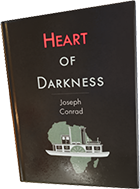
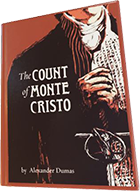
Changes idk

diff --git a/src/views/book/Book.jsx b/src/views/book/Book.jsx
@@ -1,62 +1,28 @@
-import React, { Suspense, useEffect } from 'react';
-import * as THREE from 'three';
+import React, { Suspense } from 'react';
 import './Book.css';
 import { useParams } from 'react-router-dom';
 import { Link } from 'react-router-dom';
-import { Canvas, useThree, useLoader } from '@react-three/fiber';
-import Book3DItem from 'views/book/components/Book3DItem';
+import { Canvas } from '@react-three/fiber';
+import Book3DItem from '../../components/Book3DItem';
 import { OrbitControls, Html } from '@react-three/drei';
-import { HDRCubeTextureLoader } from 'three/examples/jsm/loaders/HDRCubeTextureLoader';
 import { ContactShadows } from '@react-three/drei';
+import Environment from '../../components/Environment';
+import { useFetchBooks } from 'hooks/useFetchBooks';
 
 const Book = () => {
-  const [book, setBook] = React.useState(null);
-
   // Get id from URL
   const { id } = useParams();
 
   // Call database
-  React.useEffect(() => {
-    const fetchBooks = async () => {
-      const response = await fetch(`https://kimmobook.azurewebsites.net/api/Books/${id}`, { method: 'GET' });
-      const data = await response.json();
-      setBook(data);
-    };
-    fetchBooks();
-  }, [id]);
+  const book = useFetchBooks(id);
 
   if (book === null) {
     return null;
   }
 
-  // Environment map for Canvas
-  function Environment({ background = false }) {
-    const { gl, scene } = useThree();
-    const [cubeMap] = useLoader(
-      HDRCubeTextureLoader,
-      [['px.hdr', 'nx.hdr', 'py.hdr', 'ny.hdr', 'pz.hdr', 'nz.hdr']],
-      (loader) => {
-        loader.setDataType(THREE.UnsignedByteType);
-        loader.setPath('/hdri/');
-      },
-    );
-
-    useEffect(() => {
-      const gen = new THREE.PMREMGenerator(gl);
-      gen.compileEquirectangularShader();
-      const hdrCubeRenderTarget = gen.fromCubemap(cubeMap);
-      cubeMap.dispose();
-      gen.dispose();
-      if (background) scene.background = hdrCubeRenderTarget.texture;
-      scene.environment = hdrCubeRenderTarget.texture;
-      return () => (scene.environment = scene.background = null);
-    });
-    return null;
-  }
-
   // id's for next and previous buttons
   function buttonPrevious() {
-    if (book.id > 1) {
+    if (book.id > 7) {
       return book.id - 1;
     } else {
       return book.id;
@@ -64,14 +30,12 @@ const Book = () => {
   }
 
   function buttonNext() {
-    if (book.id < 8) {
+    if (book.id < 14) {
       return book.id + 1;
     } else {
       return book.id;
     }
   }
-
-  console.log(book.length);
 
   return (
     <div>

diff --git a/src/views/landing/Landing.jsx b/src/views/landing/Landing.jsx
@@ -1,0 +1,68 @@
+import React, { Suspense, useState, useEffect } from 'react';
+import { Canvas } from '@react-three/fiber';
+import { OrbitControls, Html } from '@react-three/drei';
+import { ContactShadows } from '@react-three/drei';
+import Environment from '../../components/Environment';
+import Book3DItem from '../../components/Book3DItem';
+import { useFetchBooks } from '../../hooks/useFetchBooks';
+import { Link } from 'react-router-dom';
+
+import './Landing.css';
+
+const Landing = () => {
+  const [id, setId] = useState(7);
+
+  //randomize book to show
+  useEffect(() => {
+    let min = 7;
+    let max = 14;
+    min = Math.ceil(min);
+    max = Math.floor(max);
+    setId(Math.floor(Math.random() * (max - min + 1)) + min);
+  }, []);
+
+  const book = useFetchBooks(id);
+  if (book === null) {
+    return null;
+  }
+
+  return (
+    <div className="landingContainer">
+      <div className="discoverText">
+        Discover
+        <div className="rightText">The Right Book</div>
+        <Link to={`/`}>
+          <button className="enterButton">Enter site</button>
+        </Link>
+      </div>
+      <Canvas className="landingCanvas" camera={{ fov: 75, position: [0, 3, 0] }}>
+        <OrbitControls
+          maxDistance={5}
+          minDistance={2}
+          rotateSpeed={0.3}
+          enableDamping={true}
+          maxPolarAngle={1.5}
+          screenSpacePanning={false}
+          zoomSpeed={0.5}
+        />
+        <Suspense fallback={<Html>Loading...</Html>}>
+          <ContactShadows
+            rotation={[Math.PI / 2, 0, 0]}
+            position={[0, -1, 0]}
+            opacity={0.5}
+            width={40}
+            height={40}
+            blur={1}
+            far={9}
+          />
+          <Environment />
+          <Book3DItem imageid={book.id} />
+        </Suspense>
+        <directionalLight position={[10, 10, 5]} intensity={2} />
+        <directionalLight position={[-10, -10, -5]} intensity={1} />
+      </Canvas>
+    </div>
+  );
+};
+
+export default Landing;

diff --git a/src/views/booklist/BookList.jsx b/src/views/booklist/BookList.jsx
@@ -4,26 +4,50 @@ import BookListItem from './components/BookListItem';
 
 const BookList = () => {
   const [books, setBooks] = React.useState([]);
+  const [searchTerm, setSearchTerm] = React.useState('');
+  const [filteredBooks, setFilteredBooks] = React.useState(books);
 
-  // Call database
   React.useEffect(() => {
     const fetchBooks = async () => {
-      const response = await fetch('https://kimmobook.azurewebsites.net/api/Books', { method: 'GET' });
+      const response = await fetch('https://localhost:44396/api/Books', { method: 'GET' });
       const data = await response.json();
       setBooks(data);
     };
     fetchBooks();
   }, []);
 
+  const handleSearchTermChange = (event) => {
+    setSearchTerm(event.target.value);
+  };
+
+  React.useEffect(() => {
+    const result = books.filter(
+      (book) =>
+        book.title.toLowerCase().includes(searchTerm.toLowerCase()) ||
+        book.author.toLowerCase().includes(searchTerm.toLowerCase()),
+    );
+    setFilteredBooks(result);
+  }, [searchTerm, books]);
+
   return (
     <div>
       <div className="header">
         <p className="topText">The Right Book</p>
+        <section className="search">
+          <input
+            type="text"
+            className="searchInput"
+            placeholder="Search books"
+            value={searchTerm}
+            onChange={handleSearchTermChange}
+            autoFocus
+          />
+        </section>
         <p className="topRightText">Discover</p>
       </div>
 
       <div className="listContainer">
-        {books.map((book) => (
+        {filteredBooks.map((book) => (
           <BookListItem key={book.id} book={book} />
         ))}
       </div>

diff --git a/src/components/Environment.jsx b/src/components/Environment.jsx
@@ -1,0 +1,30 @@
+import { useEffect } from 'react';
+import { HDRCubeTextureLoader } from 'three/examples/jsm/loaders/HDRCubeTextureLoader';
+import { useThree, useLoader } from '@react-three/fiber';
+import * as THREE from 'three';
+
+const Environment = ({ background = false }) => {
+  const { gl, scene } = useThree();
+  const [cubeMap] = useLoader(
+    HDRCubeTextureLoader,
+    [['px.hdr', 'nx.hdr', 'py.hdr', 'ny.hdr', 'pz.hdr', 'nz.hdr']],
+    (loader) => {
+      loader.setDataType(THREE.UnsignedByteType);
+      loader.setPath('/hdri/');
+    },
+  );
+
+  useEffect(() => {
+    const gen = new THREE.PMREMGenerator(gl);
+    gen.compileEquirectangularShader();
+    const hdrCubeRenderTarget = gen.fromCubemap(cubeMap);
+    cubeMap.dispose();
+    gen.dispose();
+    if (background) scene.background = hdrCubeRenderTarget.texture;
+    scene.environment = hdrCubeRenderTarget.texture;
+    return () => (scene.environment = scene.background = null);
+  });
+  return null;
+};
+
+export default Environment;

diff --git a/src/App.jsx b/src/App.jsx
@@ -3,27 +3,30 @@ import { BrowserRouter as Router, Switch, Route } from 'react-router-dom';
 import BookList from 'views/booklist/BookList';
 import Book from 'views/book/Book';
 import NotFound from 'views/notfound/NotFound';
+import Landing from 'views/landing/Landing';
 import './App.css';
 import Layout from 'components/Layout';
 
 function App() {
   return (
     <Router>
-      <Layout>
-        <Switch>
+      <Switch>
+        <Route path="/landing/" exact>
+          <Landing />
+        </Route>
+        <Layout>
           <Route path="/" exact>
             <BookList />
           </Route>
-
           <Route path="/book/:id" exact>
             <Book />
           </Route>
 
-          <Route path="*">
+          {/* <Route path="*">
             <NotFound />
-          </Route>
-        </Switch>
-      </Layout>
+          </Route> */}
+        </Layout>
+      </Switch>
     </Router>
   );
 }

diff --git a/src/views/landing/Landing.css b/src/views/landing/Landing.css
@@ -1,0 +1,44 @@
+.landingContainer {
+  background: linear-gradient(170deg, #ffffff 70%, #f8f8f8 30%);
+  display: flex;
+  flex-direction: row;
+  height: 100vh;
+  align-items: center;
+  justify-content: center;
+}
+
+.landingCanvas {
+  height: 700px !important;
+  width: 50vw !important;
+}
+
+.discoverText {
+  font-family: Mohave_regular;
+  font-size: 150px;
+  color: #7ac1b4;
+  text-align: center;
+}
+
+.rightText {
+  font-family: Mohave_regular;
+  font-size: 80px;
+  color: black;
+  text-align: center;
+}
+
+.enterButton {
+  font-family: Cantarell_regular;
+  font-size: 25px;
+  background-color: #7ac1b4;
+  color: white;
+  border: none;
+  padding: 15px 32px;
+  border-radius: 10px;
+  width: 180px;
+  transition: all 0.5s ease;
+  outline: none;
+}
+
+.enterButton:hover {
+  background-color: #2c645b;
+}

diff --git a/src/views/booklist/BookList.css b/src/views/booklist/BookList.css
@@ -51,6 +51,21 @@
   transform: rotate(10deg);
 }
 
+.searchInput {
+  font-family: Cantarell_regular;
+  color: rgba(0, 0, 0, 0.8);
+  background-color: rgba(0, 0, 0, 0.09);
+  border-radius: 89px;
+  border-style: none;
+  padding: 10px;
+  padding-left: 16px;
+  margin-right: 40px;
+}
+
+*:focus {
+  outline: none;
+}
+
 .listTitle {
   font-family: Mohave_regular;
   font-size: 21px;
@@ -79,6 +94,10 @@
   .sheet {
     margin-left: auto;
     margin-right: auto;
+  }
+
+  .searchInput {
+    display: none;
   }
 
   .listContainer {

diff --git a/src/hooks/useFetchBooks.jsx b/src/hooks/useFetchBooks.jsx
@@ -1,0 +1,15 @@
+import { useState, useEffect } from 'react';
+
+export const useFetchBooks = (id) => {
+  const [book, setBook] = useState(null);
+  useEffect(() => {
+    const fetchBooks = async () => {
+      const response = await fetch(`https://localhost:44396/api/Books/${id}`, { method: 'GET' });
+      const data = await response.json();
+      setBook(data);
+    };
+    fetchBooks();
+  }, [id]);
+
+  return book;
+};

diff --git a/src/components/Layout.css b/src/components/Layout.css
@@ -16,7 +16,7 @@ a {
 
 .background {
   position: absolute;
-  background: #3dc1de;
+  background: #7ac1b4;
   height: 100%;
   width: 100%;
   z-index: -2;
